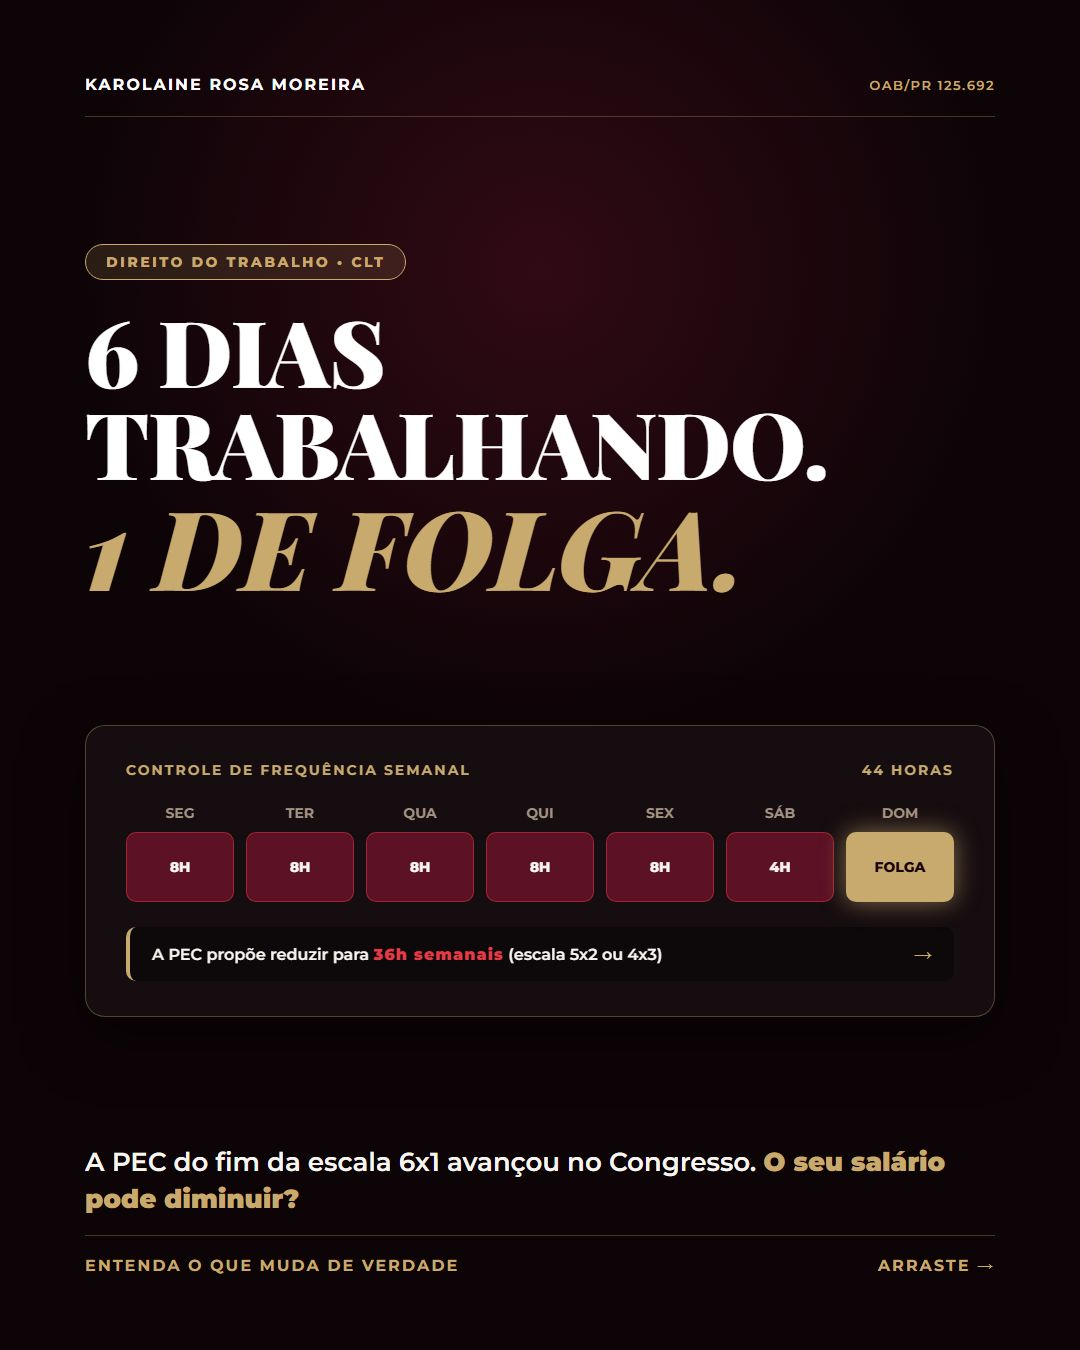
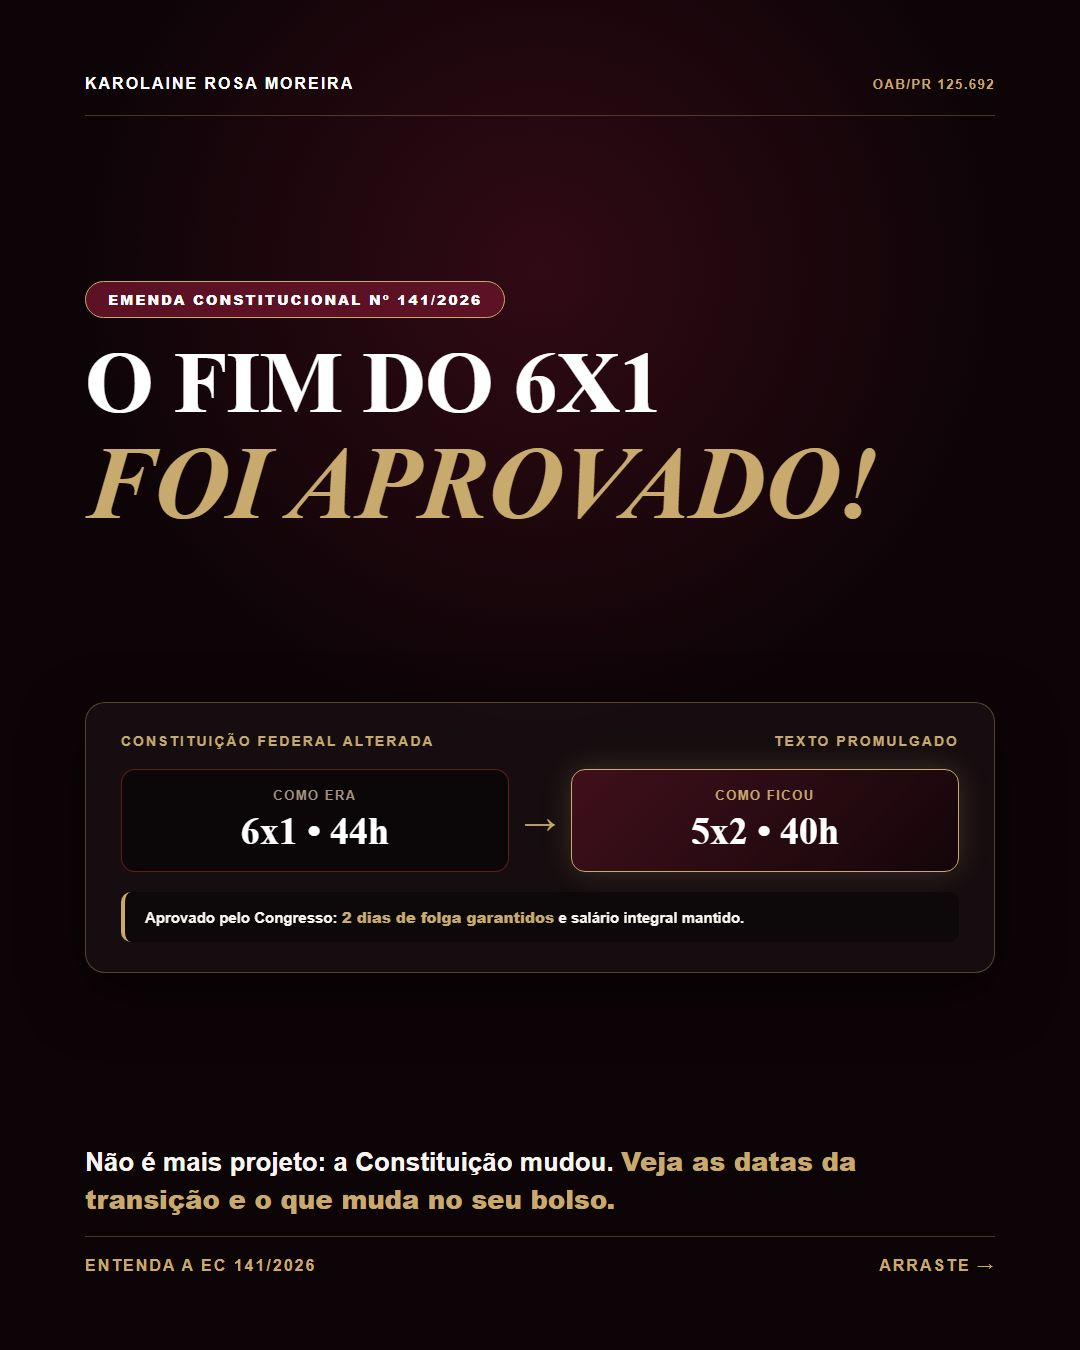
feat(post): atualiza escala 6x1 para Emenda Constitucional nº 141/2026 promulgada

diff --git a/posts/2026-11-14_fim-da-escala-6x1-nova-jornada-trabalho.md b/posts/2026-11-14_fim-da-escala-6x1-nova-jornada-trabalho.md
@@ -2,33 +2,35 @@
 id: "2026-11-14_fim-da-escala-6x1-nova-jornada-trabalho"
 data: "2026-11-14"
 area: "Direito do Trabalho"
-tema: "Fim da Escala 6x1 e PEC da Jornada de Trabalho (5x2 / 4x3)"
+tema: "Fim da Escala 6x1 e Promulgação da Emenda Constitucional nº 141/2026"
 formato: "carrossel"
 status: "aprovado"
 ---
 
-# Fim da Escala 6x1? A PEC que Propõe a Nova Jornada Avançou no Congresso
+# O Fim da Escala 6x1 foi Aprovado: Conheça a Emenda Constitucional nº 141/2026
 
 ## 📌 LEGENDA PARA O INSTAGRAM E TIKTOK:
 
-O debate sobre o fim da escala 6x1 tomou conta do país nos últimos dias após a Proposta de Emenda à Constituição (PEC) atingir as assinaturas necessárias para começar a tramitar na Câmara dos Deputados. 
+NÃO É MAIS PROJETO: a Constituição Federal foi oficialmente alterada! O Congresso Nacional promulgou a Emenda Constitucional nº 141/2026, decretando o fim da escala 6x1 tradicional no Brasil e garantindo 2 dias de repouso semanal remunerado (escala 5x2).
 
-Mas em meio a tantos boatos, o que a lei realmente diz? O seu salário pode diminuir? A mudança já está valendo hoje?
+Mas atenção: a redução de jornada tem datas oficiais de transição e regras claras para não prejudicar seu salário. 
 
-👉 Arraste para o lado e entenda os 4 pontos fundamentais que todo trabalhador e empregador precisam saber agora:
+👉 Arraste para o lado e entenda os 4 pontos fundamentais da nova lei:
 
-1⃣ **O que a PEC propõe:** redução do teto constitucional de 44h para 36h semanais, abrindo espaço para modelos como a escala 5x2 ou a semana de 4 dias (4x3).
-2⃣ **Seu salário NÃO pode ser reduzido:** o Art. 7º, inciso VI, da Constituição Federal assegura a irredutibilidade salarial. A hora trabalhada passará a valer mais.
-3⃣ **Ainda não virou lei:** a proposta começou a tramitar e ainda precisará de aprovação por 3/5 dos votos na Câmara e no Senado, em dois turnos.
-4⃣ **O que vale hoje:** até a conclusão da votação, a escala atual da CLT continua 100% em vigor.
+1⃣ **Não é mais PEC:** com a aprovação em dois turnos na Câmara e no Senado, a medida agora é norma constitucional obrigatória em todo o país (EC nº 141/2026).
+2⃣ **Salário 100% protegido:** a Constituição proíbe qualquer redução salarial (nominal ou proporcional). O valor da sua hora trabalhada passará a valer mais.
+3⃣ **Calendário de transição:** a redução para 40 horas semanais será progressiva:
+   • 1ª etapa (16/12/2026): o teto já cai para 42 horas semanais.
+   • 2ª etapa (16/12/2027): o teto atinge as 40 horas semanais definitivas.
+4⃣ **Horas extras:** a partir de 16 de dezembro, qualquer trabalho que ultrapassar 42h na semana deverá ser pago como hora extra com adicionais legais.
 
-💬 Agora quero saber a sua opinião: você acha que o fim da escala 6x1 melhora a produtividade ou traz dificuldades para as empresas? E você prefere a escala 5x2 ou 4x3? Deixe seu comentário!
+💬 Trabalhadores e empresários: sua empresa já começou a desenhar as novas escalas de 5x2 para dezembro? Deixe sua dúvida nos comentários!
 
-Salva este post para acompanhar as atualizações das votações no Congresso. 📌
+Salva este post para não perder as datas da transição. 📌
 
 ---
 Dra. Karolaine Rosa Moreira | OAB/PR 125.692  
 Advocacia Estratégica e Preventiva  
 📍 Cornélio Procópio/PR
 
-#direitodotrabalho #escala6x1 #fimdaescala6x1 #jornadadetrabalho #clt #trabalhador #direitostrabalhistas #pec6x1 #advocaciatrabalhista #oabpr #karolainemoreiraadv
+#direitodotrabalho #escala6x1 #fimdaescala6x1 #emendaconstitucional141 #ec141 #jornadadetrabalho #clt #trabalhador #direitostrabalhistas #advocacia #oabpr #karolainemoreiraadv
